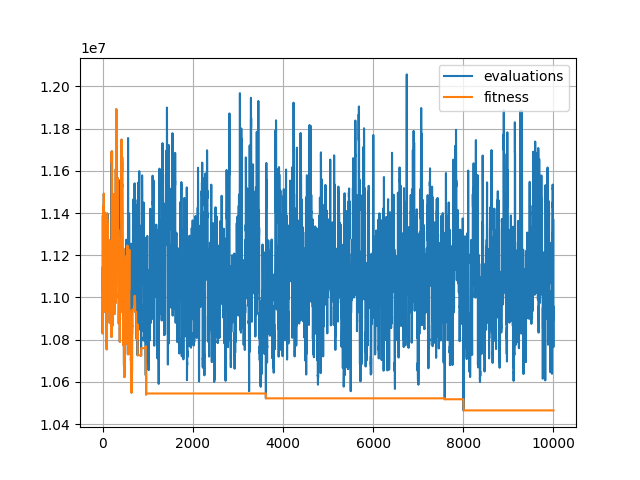
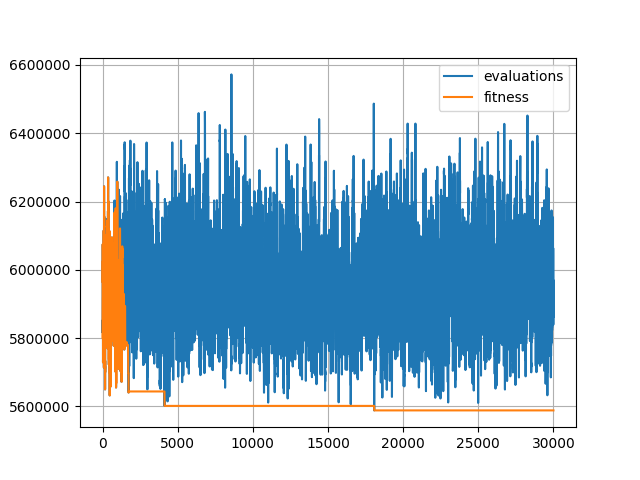
Iteration and stability

diff --git a/simulated_annealing.py b/simulated_annealing.py
@@ -48,7 +48,7 @@ def swap(quantity, solution):
 
 
 def generate_neighbor(quantity, solution):
-    solution_ = copy(solution)
+    solution_ = copy(solution, 'A')
     positions = choice(quantity, 2, False)
     pivot = solution_[positions[0]]
     solution_[positions[0]] = solution_[positions[1]]
@@ -69,32 +69,35 @@ def generate_neighborhood(quantity, solution, neighbors):
     return neighborhood, values
 
 
-def simulated_annealing(quantity, Flow, Distance, iterations, temperature):
-    evaluations = empty(iterations * 10)
-    fitness = empty(iterations * 10)
+def simulated_annealing(quantity, Flow, Distance, iterations, stability, temperature):
+    evaluations = empty(iterations * stability)
+    fitness = empty(iterations * stability)
     solution = arange(quantity)
     # solution = choice(quantity, quantity, False)
-    delta = .95
+    delta = .9
     boltzmann = empty(1)
     probability = empty(1)
     value_ = evaluate(quantity, Flow, Distance, solution)
     for i in range(iterations):
         # print(temperature)
-        for j in range(10):
+        for j in range(stability):
             swap(quantity, solution)
             value = evaluate(quantity, Flow, Distance, solution)
-            evaluations[(i * 10) + j] = value
+            evaluations[(i * stability) + j] = value
             error = value - value_
             if error < 0:
+                # print("yese")
                 value_ = value
                 solution_ = solution
             else:
                 boltzmann[0] = exp(-error/temperature)
+                # print(boltzmann[0])
                 probability[0] = rand()
                 if probability[0] < boltzmann[0]:
+                    # print("yese 2")
                     value_ = value
                     solution_ = solution
-            fitness[(i * 10) + j] = value_
+            fitness[(i * stability) + j] = value_
         temperature = delta * temperature
     plot(evaluations, label="evaluations")
     plot(fitness, label="fitness")
@@ -105,13 +108,14 @@ def simulated_annealing(quantity, Flow, Distance, iterations, temperature):
 
 
 quantity, Flow, Distance = read_file()
-# solution, value = simulated_annealing(quantity, Flow, Distance, 1000, 3000000)
-# print()
-# print(solution, value)
+solution, value = simulated_annealing(quantity, Flow, Distance, 1000, 30, 3000000)
+print()
+print(solution, value)
 
-solution = arange(26)
-for i in range(26):
-    neighborhood, values = generate_neighborhood(26, solution, 3)
-    index_ = argmax(values)
-    print(neighborhood[index_])
-    # solution = neighborhood[index_]
+# solution = arange(26)
+# print(solution)
+# for i in range(26):
+#     neighborhood, values = generate_neighborhood(26, solution, 3)
+#     index_ = argmax(values)
+#     print(neighborhood[index_])
+#     # solution = neighborhood[index_]
